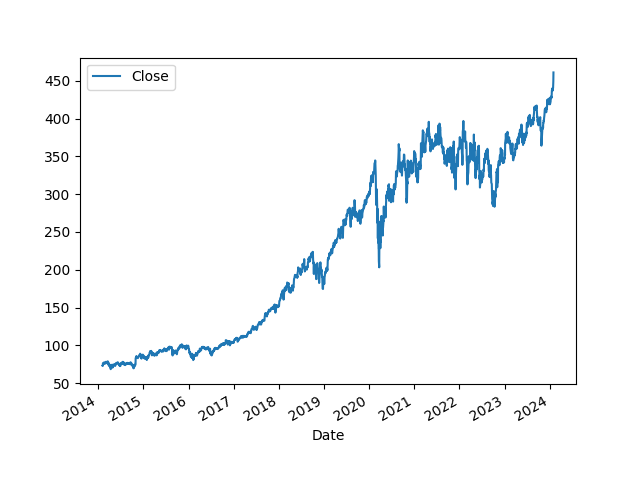
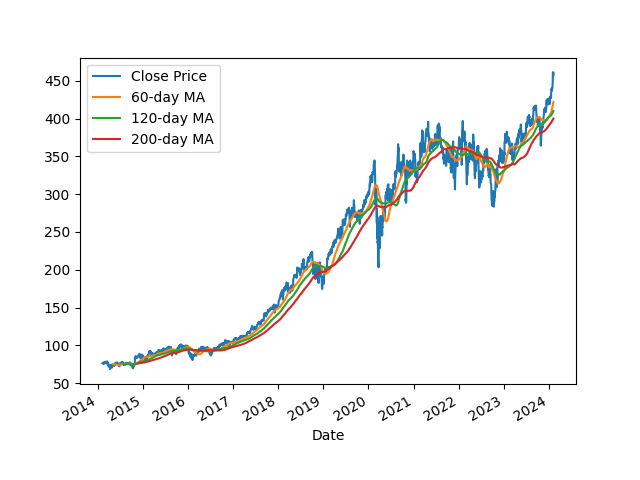
Resolved merge conflicts?

diff --git a/helloworld/clean.py b/helloworld/clean.py
@@ -38,19 +38,23 @@ def obtain_stock(tickerSymbol):
 
 def MakeBaseImage(tickerSymbol):
     end_date = datetime.now()
-
-    # Date 10 years ago from the current date
     start_date = end_date - timedelta(days=10*365)
     ticker_df = yf.download(tickerSymbol, start=start_date.strftime('%Y-%m-%d'), end=end_date.strftime('%Y-%m-%d'))
-    
     ticker_df.index = pd.to_datetime(ticker_df.index)
-    #ticker_df["Tomorrow"] = ticker_df["Close"].shift(-1)
-    #ticker_df["Target"] = (ticker_df["Tomorrow"] > ticker_df["Close"]).astype(int)
-    #print(ticker_df.head())
-    
+    # Calculate moving averages
+    ticker_df['60-day MA'] = ticker_df['Close'].rolling(window=60).mean()
+    ticker_df['100-day MA'] = ticker_df['Close'].rolling(window=100).mean()
+    ticker_df['120-day MA'] = ticker_df['Close'].rolling(window=120).mean()
+
+    # Plotting   
     fig, ax = plt.subplots()
     ticker_df.plot.line(y='Close', use_index=True, ax=ax)
+    ticker_df['60-day MA'].plot.line(use_index=True, ax=ax, label='60-day MA')
+    ticker_df['100-day MA'].plot.line(use_index=True, ax=ax, label='100-day MA')
+    ticker_df['120-day MA'].plot.line(use_index=True, ax=ax, label='120-day MA')
+
+    # Add legend
+    plt.legend()
     plt.savefig('plots/' + tickerSymbol + '_base.png')
     plt.close(fig)
-    #print("Cleaned data.. ready to run")
     return
